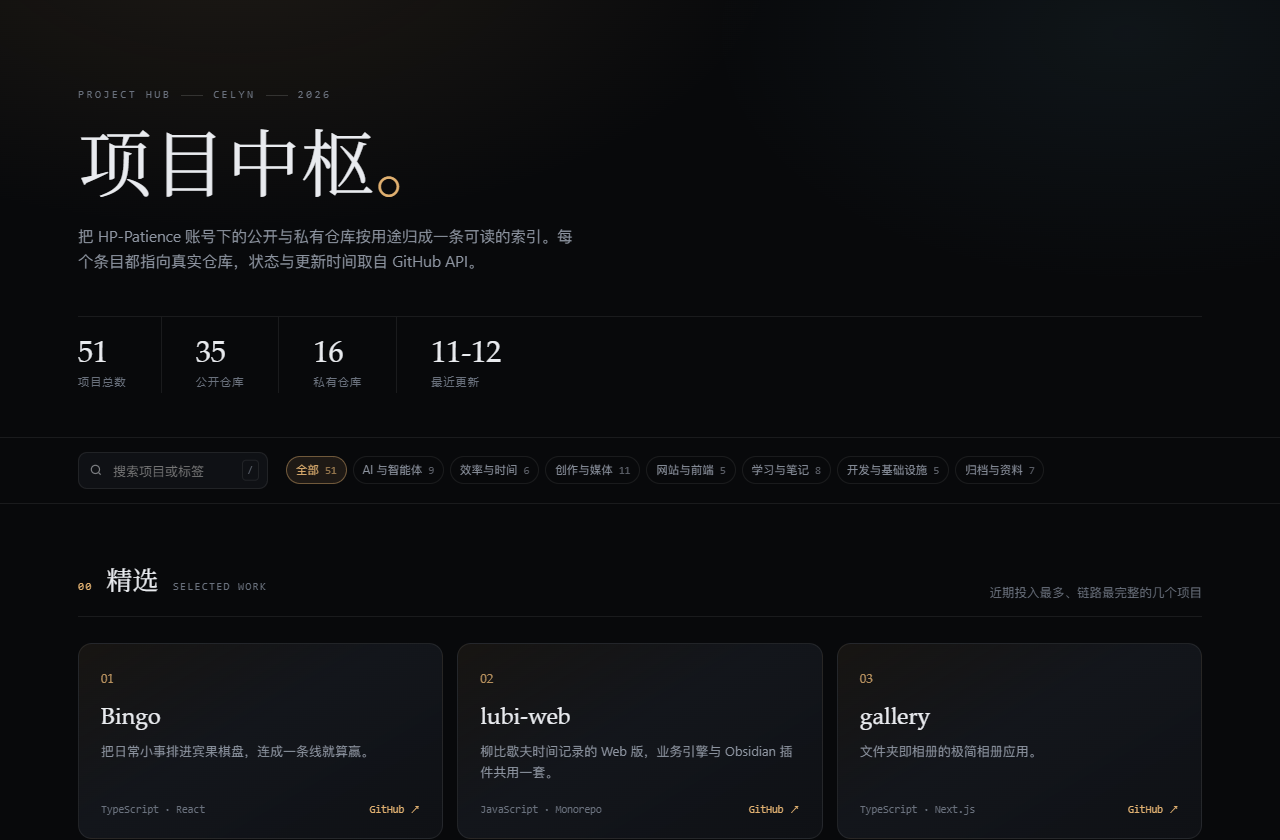
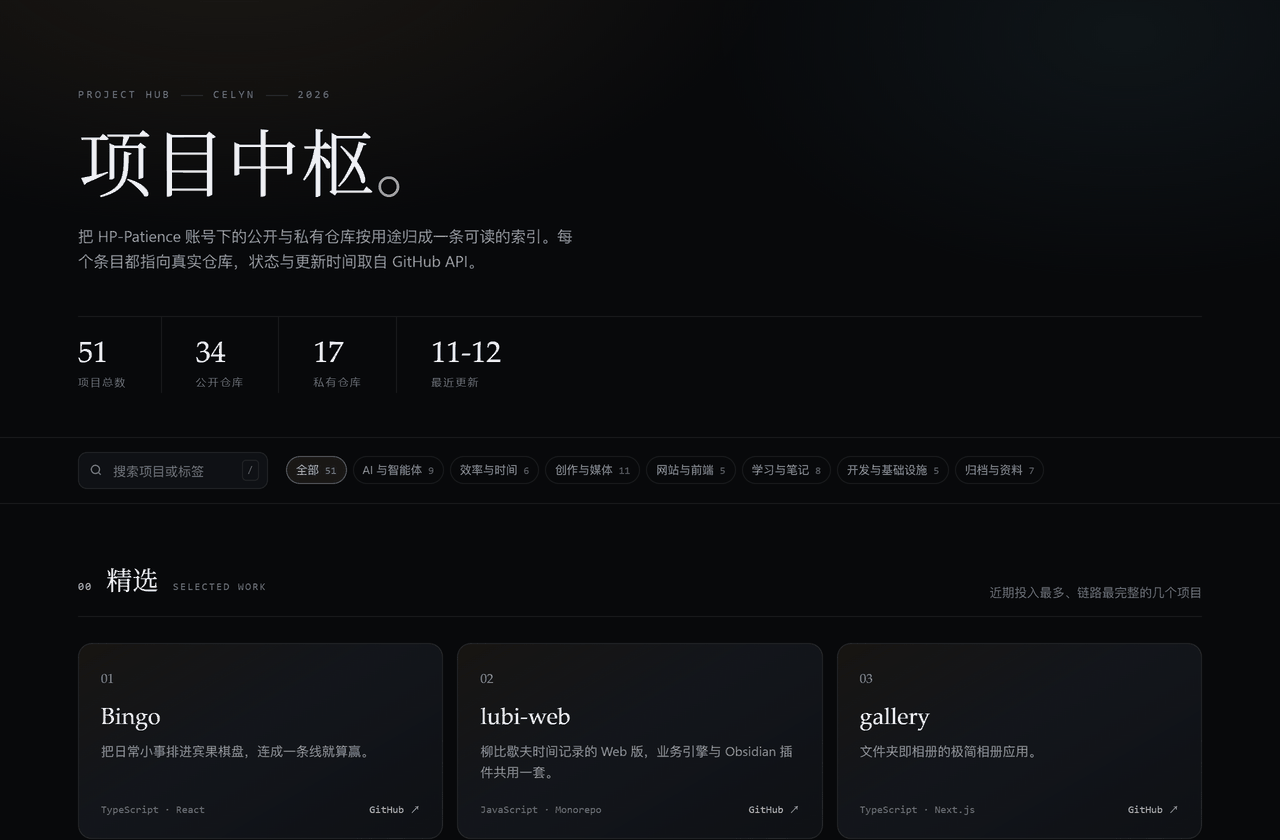
feat: Tools 转为私有，按私有规则隐藏描述与链接

diff --git a/index.html b/index.html
@@ -294,7 +294,7 @@
     </div>
     <div>
       <div class="mono">生成时间</div>
-      <div>2026-11-12 14:30</div>
+      <div>2026-11-12 18:23</div>
     </div>
     <div>
       <div class="mono">入口</div>
@@ -304,7 +304,7 @@
 </footer>
 
 <script>
-const DATA = {"meta":{"owner":"HP-Patience","accounts":["HP-Patience"],"source":"GitHub REST API（HP-Patience 名下 53 个仓库）+ 本地工作区 E:/_Projects/HP_Github_PJ","updated":"2026-11-12"},"categories":[{"id":"ai","name":"AI 与智能体","en":"AI & Agents","desc":"把模型能力落成可用工具：Agent 工作流、技能库、检索与生成。"},{"id":"productivity","name":"效率与时间","en":"Productivity","desc":"任务、时间、知识的管理系统，多数以本地数据与 Markdown 为底座。"},{"id":"creative","name":"创作与媒体","en":"Creative & Media","desc":"图像、声音、视频与游戏：从素材检索到成片输出的完整链路。"},{"id":"web","name":"网站与前端","en":"Web & Frontend","desc":"个人主页、内容工作台与前端练习，多为可直接访问的线上作品。"},{"id":"learning","name":"学习与笔记","en":"Learning & Notes","desc":"课程、教材与研究方向的结构化记录，强调可复习、可追踪。"},{"id":"infra","name":"开发与基础设施","en":"Dev & Infra","desc":"编辑器、桥接层、脚本与配置：支撑上面所有项目的底座。"},{"id":"archive","name":"归档与资料","en":"Archive","desc":"长期归档的 vault、配置备份与参考资料，不作为活跃项目维护。"}],"projects":[{"name":"Bingo","owner":"HP-Patience","category":"productivity","tagline":"把日常小事排进宾果棋盘，连成一条线就算赢。","desc":"React + Supabase 的宾果式任务管理：完成格子攒 XP、升级解锁头衔，用抽奖与虚拟商店把奖励兑换成真实的休息与零食。","stack":["TypeScript","React","Supabase"],"tags":["任务管理","游戏化","PWA"],"homepage":"https://www.life-bingo.xyz/","featured":true,"updated":"2026-11-04"},{"name":"lubi-web","owner":"HP-Patience","category":"productivity","tagline":"柳比歇夫时间记录的 Web 版，业务引擎与 Obsidian 插件共用一套。","desc":"monorepo（apps + packages），把时间轴记录、计时、周月年回顾与备份搬进浏览器，数据留在本机 SQLite。","stack":["JavaScript","Monorepo","SQLite"],"tags":["时间记录","柳比歇夫","本地优先"],"featured":true,"updated":"2026-11-07"},{"name":"obsidian_task_kanban","owner":"HP-Patience","category":"productivity","tagline":"Lubi 时间记录插件，外加一份开箱即用的 Obsidian 仓库。","desc":"时间轴记录、周/月/年回顾与热力图、周日程任务规划，全部落在纯 Markdown 上，可直接 git 同步。","stack":["TypeScript","Obsidian"],"tags":["Obsidian","时间记录","热力图"],"updated":"2026-11-02"},{"name":"Obsidian_Plugin","owner":"HP-Patience","category":"productivity","tagline":"个人 Obsidian 插件源码合集：Lubi 与 Mermaid Zoom Viewer。","desc":"两个自用插件的源码与构建脚本集中管理，方便统一版本与发布。","stack":["JavaScript","Obsidian"],"tags":["Obsidian","插件开发"],"updated":"2026-11-02"},{"name":"Skills","owner":"HP-Patience","category":"ai","tagline":"面向 AI 编程助手的个人 Agent Skills 合集。","desc":"覆盖学习、写作、规划、需求理解与开发工作流，按可安装的 skill 结构组织。","stack":["Python","Markdown"],"tags":["Agent","Skill","工作流"],"updated":"2026-11-04"},{"name":"DeepTutor","owner":"HP-Patience","category":"ai","tagline":"结合知识库检索的个性化 AI 学习助手。","desc":"在 HKUDS/DeepTutor 基础上做个人化调整：答疑、课程学习与知识理解，支持文档入库检索。","stack":["Python","RAG","Agent"],"tags":["教育","RAG","二次开发"],"statusOverride":"fork","updated":"2026-11-01"},{"name":"MathModelAgent","owner":"HP-Patience","category":"ai","tagline":"数学建模 Agent：从读题到生成可提交的完整论文。","desc":"问题分析、建模求解、代码执行与论文撰写串成一条链路，支持知识库与人机协作。","stack":["Python","Agent"],"tags":["数学建模","论文生成"],"statusOverride":"fork","updated":"2026-10-25"},{"name":"tongflow","owner":"HP-Patience","category":"ai","tagline":"多模态 AI 工作流：用节点编排文本、图像、语音与视频。","desc":"可视化画布组织生成流程，节点间可组合模型与参数，适合把一次性脚本固化成可复用管线。","stack":["TypeScript","React"],"tags":["工作流","多模态","节点编排"],"statusOverride":"fork","updated":"2026-10-11"},{"name":"tongflow-api-xai","owner":"HP-Patience","category":"ai","tagline":"TongFlow 的 xAI Grok 节点插件。","desc":"通过 OpenAI 兼容接口接入聊天、视觉与图像模型，支持逐节点选择模型。","stack":["Python","xAI"],"tags":["插件","API 网关"],"statusOverride":"fork","updated":"2026-10-09"},{"name":"GithubStarsManager","owner":"HP-Patience","category":"ai","tagline":"把 GitHub Star 变成可检索、可分类的个人资料库。","desc":"自动同步星标仓库，用 AI 生成摘要与分类，支持语义搜索与 Release 追踪。","stack":["TypeScript","LLM"],"tags":["GitHub","语义搜索","自动化"],"statusOverride":"fork","updated":"2026-09-07"},{"name":"dsh-directorx","owner":"HP-Patience","category":"ai","tagline":"DeepSeek Harness 插件：视频、图像、音频技能与知识库。","desc":"为本地 Agent 挂载多模态工具与可配置模型，适合做内容生产流水线。","stack":["JavaScript","DeepSeek"],"tags":["插件","多模态"],"statusOverride":"fork","updated":"2026-09-03"},{"name":"genius-mathmodelagent","owner":"HP-Patience","category":"ai","tagline":"","desc":"","stack":["Python","Agent"],"tags":["科研助手","结构整理"],"updated":"2026-10-25","visibility":"private","masked":true},{"name":"gallery","owner":"HP-Patience","category":"creative","tagline":"文件夹即相册的极简相册应用。","desc":"把图片放进 public/albums 即自动生成相册列表，响应式瀑布流浏览，桌面与移动端均适配。","stack":["TypeScript","Next.js"],"tags":["相册","瀑布流","Vercel"],"homepage":"https://gallery-xi-jet.vercel.app","featured":true,"updated":"2026-11-04"},{"name":"ink-live2d","owner":"HP-Patience","category":"creative","tagline":"墨像：黑白肖像与键鼠桌宠共用一套 Live2D 制作管线。","desc":"InkPortrait 与 InkKeys 两个模型合并维护，包含分层工具、绑定导出与运行验证流程。","stack":["Python","Live2D"],"tags":["Live2D","桌宠","模型制作"],"featured":true,"updated":"2026-11-05"},{"name":"ink-bongocat-live2d","owner":"HP-Patience","category":"creative","tagline":"","desc":"","stack":["C","SDL3","OpenGL"],"tags":["桌宠","原生","运行时"],"updated":"2026-11-02","visibility":"private","masked":true},{"name":"LocalMediaSearch","owner":"HP-Patience","category":"creative","tagline":"镜库：用一句话或一张参考图，找到本机里的素材。","desc":"基于 EmbeddingGemma 2 的本地多模态检索，覆盖视频、图片、音频、文本与代码，定位后可导出。","stack":["Python","Embedding","Windows"],"tags":["素材检索","多模态","本地优先"],"featured":true,"updated":"2026-10-12"},{"name":"MusiCue","owner":"HP-Patience","category":"creative","tagline":"听得懂心情的 AI 电台，按场景生成渐进式歌单。","desc":"用自然语言描述需求，模型结合上下文推荐歌曲并持续记忆品味，形成个人 DJ。","stack":["TypeScript","React","LLM"],"tags":["音乐","推荐","LLM"],"featured":true,"updated":"2026-08-29"},{"name":"pix","owner":"HP-Patience","category":"creative","tagline":"面向游戏开发的 AI 像素资产平台。","desc":"整合图像生成、去背景、限色、序列帧处理与资产管理，输出可直接进引擎的像素素材。","stack":["Python","FastAPI","React"],"tags":["像素画","游戏资产","生成"],"statusOverride":"fork","updated":"2026-09-10"},{"name":"voicebox","owner":"HP-Patience","category":"creative","tagline":"本地 AI 语音工作室：克隆、合成、听写与 Agent 接口。","desc":"把声音克隆、多语言语音合成与快捷键听写收进一个桌面应用，并提供给 Agent 调用的语音接口。","stack":["TypeScript","TTS"],"tags":["语音克隆","TTS","本地"],"statusOverride":"fork","updated":"2026-09-19"},{"name":"VoxCPM","owner":"HP-Patience","category":"creative","tagline":"无分词器的多语言语音合成，支持音色设计。","desc":"在上游模型基础上做本地化实验：多语言生成、创意音色设计与可控声音克隆。","stack":["Python","TTS"],"tags":["语音合成","模型"],"statusOverride":"fork","updated":"2026-09-14"},{"name":"openscreen","owner":"HP-Patience","category":"creative","tagline":"免费做演示视频：无订阅、无水印，可商用。","desc":"屏幕录制与镜头编排工具，面向产品演示与操作讲解，作为 Screen Studio 的替代。","stack":["TypeScript","Electron"],"tags":["录屏","演示视频"],"statusOverride":"fork","updated":"2026-09-19"},{"name":"video-subtitle-remover","owner":"HP-Patience","category":"creative","tagline":"AI 去除视频硬字幕与水印，保持原始分辨率。","desc":"支持自定义区域、批量图片与三平台运行，适合处理二创素材与教学录屏。","stack":["Python","CV"],"tags":["视频修复","去水印"],"statusOverride":"fork","updated":"2026-06-30"},{"name":"video-parser","owner":"HP-Patience","category":"creative","tagline":"本地视频资料工作台：下载、抽帧、字幕、转写与归档。","desc":"链接解析下载后串起封面抽帧、B 站字幕、Whisper CUDA 批量转写与 AI 画面分析，提供 React 界面与 Python CLI。","stack":["Python","React","Whisper"],"tags":["视频处理","字幕","归档"],"updated":"2026-11-08"},{"name":"HP-Patience","owner":"HP-Patience","category":"web","tagline":"GitHub 个人主页：AI 产品、学习系统与个人工具。","desc":"Profile 仓库，用 README 组织项目索引与自我介绍。","stack":["Python","Markdown"],"tags":["Profile","导航"],"updated":"2026-11-05"},{"name":"OpenStock","owner":"HP-Patience","category":"web","tagline":"开源美股行情分析应用，Next.js + shadcn/ui。","desc":"接入 Finnhub 行情与 TradingView 图表，作为付费行情终端的替代方案。","stack":["TypeScript","Next.js"],"tags":["行情","仪表盘"],"statusOverride":"fork","updated":"2026-10-06"},{"name":"Firefly_Hub","owner":"HP-Patience","category":"web","tagline":"博客的本地内容工作台：写、预览、发布一条龙。","desc":"集中管理文章与动态，Markdown 实时预览，并协作源码仓库与静态构建仓库的提交流程。","stack":["JavaScript","Electron"],"tags":["内容管理","Markdown"],"updated":"2026-08-29"},{"name":"frontend-awesome-collection","owner":"HP-Patience","category":"web","tagline":"","desc":"","stack":["HTML","CSS","JavaScript"],"tags":["前端","复刻","动效"],"updated":"2026-11-08","visibility":"private","masked":true},{"name":"English_Context","owner":"HP-Patience","category":"learning","tagline":"把 6098 个考研词汇放进连续故事里记。","desc":"118 个分类结合 AI 释义与例句，用语境理解 + SM-2 间隔复习把单词变成长期记忆。","stack":["TypeScript","React","LLM"],"tags":["考研英语","间隔复习","语境"],"featured":true,"updated":"2026-10-08"},{"name":"course-work","owner":"HP-Patience","category":"learning","tagline":"MIT Missing Semester 与零到全栈的课程材料归档。","desc":"按课程模块整理配套代码与笔记，保留可回看的练习痕迹。","stack":["CSS","Markdown"],"tags":["课程","归档"],"updated":"2026-11-02"},{"name":"my-fullstack-journey","owner":"HP-Patience","category":"learning","tagline":"从零基础到 AI Agent 产品的全栈学习路线。","desc":"覆盖 Python、JavaScript、React、FastAPI、数据库、LLM 与 Agent 开发的阶段性笔记。","stack":["Markdown"],"tags":["路线图","全栈"],"updated":"2026-09-19"},{"name":"DevPatterns","owner":"HP-Patience","category":"learning","tagline":"开发模式与工程实践笔记库。","desc":"前后端架构、工具配置、AI 工作流与项目管理方法的个人沉淀。","stack":["Markdown"],"tags":["架构","工程实践"],"updated":"2026-06-25"},{"name":"worldquant-study-note","owner":"HP-Patience","category":"learning","tagline":"WorldQuant BRAIN 的量化研究笔记与实验记录。","desc":"从 Alpha Research、表达式写法到回测设置，记录实验、结果解读与提交准备。","stack":["Markdown"],"tags":["量化","Alpha","笔记"],"updated":"2026-09-24"},{"name":"mao-probability-statistics","owner":"HP-Patience","category":"learning","tagline":"","desc":"","stack":["Python","Markdown"],"tags":["概率统计","教材"],"updated":"2026-10-25","visibility":"private","masked":true},{"name":"Tools","owner":"HP-Patience","category":"infra","tagline":"十几个自用小工具收进一个仓库，各自独立运行。","desc":"每个工具保留自己的 README 与运行方式：静态页、Python 脚本、Node 服务、Go 后端与浏览器游戏原型并存，共享位置而不共享依赖。","stack":["Python","JavaScript","Go"],"tags":["工具集","LLM 测试"],"updated":"2026-11-12","subprojects":[{"name":"GPT图像工坊","tagline":"输入提示词生成图片，支持参考图编辑与本地标注。","stack":["Python","FastAPI"],"updated":"2026-08-17"},{"name":"LLM试金石","tagline":"批量验证 OpenAI 兼容接口的模型连通性与耗时。","stack":["HTML","JavaScript"],"updated":"2026-07-22"},{"name":"Dreamcore-Style-Transfer","tagline":"用 Pillow 做 10 种「核」风格的像素级处理。","stack":["Python","Pillow"],"updated":"2026-11-04"},{"name":"Penrose-Staircase","tagline":"生成第 n 阶彭罗斯不可能阶梯。","stack":["Python"],"updated":"2026-11-04"},{"name":"tencent-server-seckill","tagline":"腾讯云服务器抢购的本地控制台与命令行。","stack":["Python","Playwright"],"updated":"2026-11-04"},{"name":"mailbox-reader","tagline":"批量导入邮箱，按需读取收件箱。","stack":["Python","Graph API"],"updated":"2026-11-04"},{"name":"QQBookExporter","tagline":"导出在线章节为 Markdown / TXT，再打包 EPUB / PDF。","stack":["Node.js"],"updated":"2026-11-04"},{"name":"Taskleaf-Kanban","tagline":"四列任务看板，JSON 文件持久化。","stack":["JavaScript","Vite","Express"],"updated":"2026-11-04"},{"name":"ai-subscription-manager","tagline":"AI 订阅客户、续费与利润记录，到期邮件提醒。","stack":["React","FastAPI","SQLite"],"updated":"2026-11-04"},{"name":"danew_card_cdk","tagline":"CDK 卡密兑换与自动开通。","stack":["Go","Vue"],"updated":"2026-11-04"},{"name":"knowledge-map","tagline":"Agent 整理、浏览器只读回看的个人知识地图。","stack":["TypeScript","Vite"],"updated":"2026-11-04"},{"name":"ember-covenant-sanctuary","tagline":"《烬契圣堂》：高对比像素风俯视角动作肉鸽原型。","stack":["Phaser 3","JavaScript"],"updated":"2026-11-07"},{"name":"dotfiles","tagline":"Linux 服务器的 Zsh 配置与一键安装脚本。","stack":["Shell","Zsh"],"updated":"2026-11-12"}]},{"name":"open_shuncode","owner":"HP-Patience","category":"infra","tagline":"","desc":"","stack":["TypeScript","Code-OSS","MCP"],"tags":["编辑器","MCP","Agent"],"updated":"2026-11-04","visibility":"private","masked":true},{"name":"github-readme-stats","owner":"HP-Patience","category":"infra","tagline":"README 统计卡片的自建实例。","desc":"上游项目的个人部署副本，用于在主页 README 中生成动态统计图，保持数据自持。","stack":["JavaScript","Vercel"],"tags":["徽章","统计","上游参考"],"statusOverride":"fork","updated":"2026-07-31"},{"name":"api-enhanced","owner":"HP-Patience","category":"infra","tagline":"网易云音乐 API 的增强版服务。","desc":"在上游基础上补齐接口与兼容层，为本地音乐类项目提供统一数据源。","stack":["JavaScript","Node.js"],"tags":["API","音乐","上游参考"],"statusOverride":"fork","updated":"2026-06-09"},{"name":"Project_Data_Archive","owner":"HP-Patience","category":"archive","tagline":"","desc":"","stack":["Jupyter Notebook","Archive"],"tags":["归档","研究数据","私有"],"updated":"2026-11-12","visibility":"private","masked":true},{"name":"obsidian-kaoyan","owner":"HP-Patience","category":"archive","tagline":"","desc":"","stack":["Markdown","Obsidian"],"tags":["Obsidian","vault","本地"],"updated":"2026-08-31","visibility":"private","masked":true},{"name":"obsidian-config","owner":"HP-Patience","category":"archive","tagline":"","desc":"","stack":["JSON","Obsidian"],"tags":["配置","备份","本地"],"updated":"2026-09-01","visibility":"private","masked":true},{"name":"folia-major","owner":"HP-Patience","category":"archive","tagline":"","desc":"","stack":["TypeScript"],"tags":["上游参考","音乐"],"updated":"2026-10-05","visibility":"private","masked":true},{"name":"localtypeless","owner":"HP-Patience","category":"productivity","tagline":"","desc":"","stack":["Python","Whisper"],"tags":["语音输入","本地推理","Windows"],"visibility":"private","updated":"2026-11-04","masked":true},{"name":"blog-firefly","owner":"HP-Patience","category":"web","tagline":"","desc":"","stack":["Astro","TypeScript"],"tags":["博客","Astro"],"visibility":"private","updated":"2026-11-11","masked":true},{"name":"undergrad-thesis-crw","owner":"HP-Patience","category":"learning","tagline":"","desc":"","stack":["Python","PyTorch","LoRA"],"tags":["论文","金融情感","微调"],"visibility":"private","updated":"2026-11-01","masked":true},{"name":"mit-math-study","owner":"HP-Patience","category":"learning","tagline":"","desc":"","stack":["Markdown"],"tags":["数学","课程"],"visibility":"private","updated":"2026-09-18","masked":true},{"name":"cc-connect","owner":"HP-Patience","category":"infra","tagline":"","desc":"","stack":["Go","MCP"],"tags":["桥接","IM","Agent"],"visibility":"private","updated":"2026-09-16","masked":true},{"name":"drumbeat-desktop","owner":"HP-Patience","category":"productivity","tagline":"","desc":"","stack":["JavaScript","Electron","SQLite"],"tags":["教培管理","本地优先","桌面应用"],"visibility":"private","updated":"2026-11-05","masked":true},{"name":"personal-workbench","owner":"HP-Patience","category":"ai","tagline":"","desc":"","stack":["Python","FastAPI","React","Electron"],"tags":["本地优先","写作","研究"],"visibility":"private","updated":"2026-11-09","masked":true},{"name":"ayakaleaf-pro","owner":"HP-Patience","category":"archive","tagline":"Overleaf 的开源自托管替代（上游镜像，仅作参考）。","desc":"覆盖 SSO、AI 助手、Git(Hub/Lab) 与 Dropbox 同步、版本追踪和沙箱编译等 Pro 能力，可自托管部署；本仓为上游 fork，未做个人改动。","stack":["TypeScript","JavaScript","Docker"],"tags":["上游参考","论文写作","自托管"],"statusOverride":"archived","updated":"2026-11-04"},{"name":"deepseek-harness","owner":"HP-Patience","category":"archive","tagline":"DeepSeek Harness 的上游镜像（本地 Agent 运行时的参考副本）。","desc":"DeepSeek Harness 官方仓库的 fork，保留 master 分支用于跟踪上游发布；本仓未做个人改动。","stack":["TypeScript","Python"],"tags":["上游参考","Agent","镜像"],"statusOverride":"archived","updated":"2026-11-04"},{"name":"rustdesk","owner":"HP-Patience","category":"archive","tagline":"RustDesk 的上游镜像（自托管远程桌面的参考副本）。","desc":"RustDesk 官方仓库的 fork，纯上游同步、未做个人改动；保留用于自托管远程桌面方案的版本对照。","stack":["Rust","Flutter"],"tags":["远程桌面","上游参考","镜像"],"statusOverride":"fork","updated":"2026-11-11"}]};
+const DATA = {"meta":{"owner":"HP-Patience","accounts":["HP-Patience"],"source":"GitHub REST API（HP-Patience 名下 53 个仓库）+ 本地工作区 E:/_Projects/HP_Github_PJ","updated":"2026-11-12"},"categories":[{"id":"ai","name":"AI 与智能体","en":"AI & Agents","desc":"把模型能力落成可用工具：Agent 工作流、技能库、检索与生成。"},{"id":"productivity","name":"效率与时间","en":"Productivity","desc":"任务、时间、知识的管理系统，多数以本地数据与 Markdown 为底座。"},{"id":"creative","name":"创作与媒体","en":"Creative & Media","desc":"图像、声音、视频与游戏：从素材检索到成片输出的完整链路。"},{"id":"web","name":"网站与前端","en":"Web & Frontend","desc":"个人主页、内容工作台与前端练习，多为可直接访问的线上作品。"},{"id":"learning","name":"学习与笔记","en":"Learning & Notes","desc":"课程、教材与研究方向的结构化记录，强调可复习、可追踪。"},{"id":"infra","name":"开发与基础设施","en":"Dev & Infra","desc":"编辑器、桥接层、脚本与配置：支撑上面所有项目的底座。"},{"id":"archive","name":"归档与资料","en":"Archive","desc":"长期归档的 vault、配置备份与参考资料，不作为活跃项目维护。"}],"projects":[{"name":"Bingo","owner":"HP-Patience","category":"productivity","tagline":"把日常小事排进宾果棋盘，连成一条线就算赢。","desc":"React + Supabase 的宾果式任务管理：完成格子攒 XP、升级解锁头衔，用抽奖与虚拟商店把奖励兑换成真实的休息与零食。","stack":["TypeScript","React","Supabase"],"tags":["任务管理","游戏化","PWA"],"homepage":"https://www.life-bingo.xyz/","featured":true,"updated":"2026-11-04"},{"name":"lubi-web","owner":"HP-Patience","category":"productivity","tagline":"柳比歇夫时间记录的 Web 版，业务引擎与 Obsidian 插件共用一套。","desc":"monorepo（apps + packages），把时间轴记录、计时、周月年回顾与备份搬进浏览器，数据留在本机 SQLite。","stack":["JavaScript","Monorepo","SQLite"],"tags":["时间记录","柳比歇夫","本地优先"],"featured":true,"updated":"2026-11-07"},{"name":"obsidian_task_kanban","owner":"HP-Patience","category":"productivity","tagline":"Lubi 时间记录插件，外加一份开箱即用的 Obsidian 仓库。","desc":"时间轴记录、周/月/年回顾与热力图、周日程任务规划，全部落在纯 Markdown 上，可直接 git 同步。","stack":["TypeScript","Obsidian"],"tags":["Obsidian","时间记录","热力图"],"updated":"2026-11-02"},{"name":"Obsidian_Plugin","owner":"HP-Patience","category":"productivity","tagline":"个人 Obsidian 插件源码合集：Lubi 与 Mermaid Zoom Viewer。","desc":"两个自用插件的源码与构建脚本集中管理，方便统一版本与发布。","stack":["JavaScript","Obsidian"],"tags":["Obsidian","插件开发"],"updated":"2026-11-02"},{"name":"Skills","owner":"HP-Patience","category":"ai","tagline":"面向 AI 编程助手的个人 Agent Skills 合集。","desc":"覆盖学习、写作、规划、需求理解与开发工作流，按可安装的 skill 结构组织。","stack":["Python","Markdown"],"tags":["Agent","Skill","工作流"],"updated":"2026-11-04"},{"name":"DeepTutor","owner":"HP-Patience","category":"ai","tagline":"结合知识库检索的个性化 AI 学习助手。","desc":"在 HKUDS/DeepTutor 基础上做个人化调整：答疑、课程学习与知识理解，支持文档入库检索。","stack":["Python","RAG","Agent"],"tags":["教育","RAG","二次开发"],"statusOverride":"fork","updated":"2026-11-01"},{"name":"MathModelAgent","owner":"HP-Patience","category":"ai","tagline":"数学建模 Agent：从读题到生成可提交的完整论文。","desc":"问题分析、建模求解、代码执行与论文撰写串成一条链路，支持知识库与人机协作。","stack":["Python","Agent"],"tags":["数学建模","论文生成"],"statusOverride":"fork","updated":"2026-10-25"},{"name":"tongflow","owner":"HP-Patience","category":"ai","tagline":"多模态 AI 工作流：用节点编排文本、图像、语音与视频。","desc":"可视化画布组织生成流程，节点间可组合模型与参数，适合把一次性脚本固化成可复用管线。","stack":["TypeScript","React"],"tags":["工作流","多模态","节点编排"],"statusOverride":"fork","updated":"2026-10-11"},{"name":"tongflow-api-xai","owner":"HP-Patience","category":"ai","tagline":"TongFlow 的 xAI Grok 节点插件。","desc":"通过 OpenAI 兼容接口接入聊天、视觉与图像模型，支持逐节点选择模型。","stack":["Python","xAI"],"tags":["插件","API 网关"],"statusOverride":"fork","updated":"2026-10-09"},{"name":"GithubStarsManager","owner":"HP-Patience","category":"ai","tagline":"把 GitHub Star 变成可检索、可分类的个人资料库。","desc":"自动同步星标仓库，用 AI 生成摘要与分类，支持语义搜索与 Release 追踪。","stack":["TypeScript","LLM"],"tags":["GitHub","语义搜索","自动化"],"statusOverride":"fork","updated":"2026-09-07"},{"name":"dsh-directorx","owner":"HP-Patience","category":"ai","tagline":"DeepSeek Harness 插件：视频、图像、音频技能与知识库。","desc":"为本地 Agent 挂载多模态工具与可配置模型，适合做内容生产流水线。","stack":["JavaScript","DeepSeek"],"tags":["插件","多模态"],"statusOverride":"fork","updated":"2026-09-03"},{"name":"genius-mathmodelagent","owner":"HP-Patience","category":"ai","tagline":"","desc":"","stack":["Python","Agent"],"tags":["科研助手","结构整理"],"updated":"2026-10-25","visibility":"private","masked":true},{"name":"gallery","owner":"HP-Patience","category":"creative","tagline":"文件夹即相册的极简相册应用。","desc":"把图片放进 public/albums 即自动生成相册列表，响应式瀑布流浏览，桌面与移动端均适配。","stack":["TypeScript","Next.js"],"tags":["相册","瀑布流","Vercel"],"homepage":"https://gallery-xi-jet.vercel.app","featured":true,"updated":"2026-11-04"},{"name":"ink-live2d","owner":"HP-Patience","category":"creative","tagline":"墨像：黑白肖像与键鼠桌宠共用一套 Live2D 制作管线。","desc":"InkPortrait 与 InkKeys 两个模型合并维护，包含分层工具、绑定导出与运行验证流程。","stack":["Python","Live2D"],"tags":["Live2D","桌宠","模型制作"],"featured":true,"updated":"2026-11-05"},{"name":"ink-bongocat-live2d","owner":"HP-Patience","category":"creative","tagline":"","desc":"","stack":["C","SDL3","OpenGL"],"tags":["桌宠","原生","运行时"],"updated":"2026-11-02","visibility":"private","masked":true},{"name":"LocalMediaSearch","owner":"HP-Patience","category":"creative","tagline":"镜库：用一句话或一张参考图，找到本机里的素材。","desc":"基于 EmbeddingGemma 2 的本地多模态检索，覆盖视频、图片、音频、文本与代码，定位后可导出。","stack":["Python","Embedding","Windows"],"tags":["素材检索","多模态","本地优先"],"featured":true,"updated":"2026-10-12"},{"name":"MusiCue","owner":"HP-Patience","category":"creative","tagline":"听得懂心情的 AI 电台，按场景生成渐进式歌单。","desc":"用自然语言描述需求，模型结合上下文推荐歌曲并持续记忆品味，形成个人 DJ。","stack":["TypeScript","React","LLM"],"tags":["音乐","推荐","LLM"],"featured":true,"updated":"2026-08-29"},{"name":"pix","owner":"HP-Patience","category":"creative","tagline":"面向游戏开发的 AI 像素资产平台。","desc":"整合图像生成、去背景、限色、序列帧处理与资产管理，输出可直接进引擎的像素素材。","stack":["Python","FastAPI","React"],"tags":["像素画","游戏资产","生成"],"statusOverride":"fork","updated":"2026-09-10"},{"name":"voicebox","owner":"HP-Patience","category":"creative","tagline":"本地 AI 语音工作室：克隆、合成、听写与 Agent 接口。","desc":"把声音克隆、多语言语音合成与快捷键听写收进一个桌面应用，并提供给 Agent 调用的语音接口。","stack":["TypeScript","TTS"],"tags":["语音克隆","TTS","本地"],"statusOverride":"fork","updated":"2026-09-19"},{"name":"VoxCPM","owner":"HP-Patience","category":"creative","tagline":"无分词器的多语言语音合成，支持音色设计。","desc":"在上游模型基础上做本地化实验：多语言生成、创意音色设计与可控声音克隆。","stack":["Python","TTS"],"tags":["语音合成","模型"],"statusOverride":"fork","updated":"2026-09-14"},{"name":"openscreen","owner":"HP-Patience","category":"creative","tagline":"免费做演示视频：无订阅、无水印，可商用。","desc":"屏幕录制与镜头编排工具，面向产品演示与操作讲解，作为 Screen Studio 的替代。","stack":["TypeScript","Electron"],"tags":["录屏","演示视频"],"statusOverride":"fork","updated":"2026-09-19"},{"name":"video-subtitle-remover","owner":"HP-Patience","category":"creative","tagline":"AI 去除视频硬字幕与水印，保持原始分辨率。","desc":"支持自定义区域、批量图片与三平台运行，适合处理二创素材与教学录屏。","stack":["Python","CV"],"tags":["视频修复","去水印"],"statusOverride":"fork","updated":"2026-06-30"},{"name":"video-parser","owner":"HP-Patience","category":"creative","tagline":"本地视频资料工作台：下载、抽帧、字幕、转写与归档。","desc":"链接解析下载后串起封面抽帧、B 站字幕、Whisper CUDA 批量转写与 AI 画面分析，提供 React 界面与 Python CLI。","stack":["Python","React","Whisper"],"tags":["视频处理","字幕","归档"],"updated":"2026-11-08"},{"name":"HP-Patience","owner":"HP-Patience","category":"web","tagline":"GitHub 个人主页：AI 产品、学习系统与个人工具。","desc":"Profile 仓库，用 README 组织项目索引与自我介绍。","stack":["Python","Markdown"],"tags":["Profile","导航"],"updated":"2026-11-05"},{"name":"OpenStock","owner":"HP-Patience","category":"web","tagline":"开源美股行情分析应用，Next.js + shadcn/ui。","desc":"接入 Finnhub 行情与 TradingView 图表，作为付费行情终端的替代方案。","stack":["TypeScript","Next.js"],"tags":["行情","仪表盘"],"statusOverride":"fork","updated":"2026-10-06"},{"name":"Firefly_Hub","owner":"HP-Patience","category":"web","tagline":"博客的本地内容工作台：写、预览、发布一条龙。","desc":"集中管理文章与动态，Markdown 实时预览，并协作源码仓库与静态构建仓库的提交流程。","stack":["JavaScript","Electron"],"tags":["内容管理","Markdown"],"updated":"2026-08-29"},{"name":"frontend-awesome-collection","owner":"HP-Patience","category":"web","tagline":"","desc":"","stack":["HTML","CSS","JavaScript"],"tags":["前端","复刻","动效"],"updated":"2026-11-08","visibility":"private","masked":true},{"name":"English_Context","owner":"HP-Patience","category":"learning","tagline":"把 6098 个考研词汇放进连续故事里记。","desc":"118 个分类结合 AI 释义与例句，用语境理解 + SM-2 间隔复习把单词变成长期记忆。","stack":["TypeScript","React","LLM"],"tags":["考研英语","间隔复习","语境"],"featured":true,"updated":"2026-10-08"},{"name":"course-work","owner":"HP-Patience","category":"learning","tagline":"MIT Missing Semester 与零到全栈的课程材料归档。","desc":"按课程模块整理配套代码与笔记，保留可回看的练习痕迹。","stack":["CSS","Markdown"],"tags":["课程","归档"],"updated":"2026-11-02"},{"name":"my-fullstack-journey","owner":"HP-Patience","category":"learning","tagline":"从零基础到 AI Agent 产品的全栈学习路线。","desc":"覆盖 Python、JavaScript、React、FastAPI、数据库、LLM 与 Agent 开发的阶段性笔记。","stack":["Markdown"],"tags":["路线图","全栈"],"updated":"2026-09-19"},{"name":"DevPatterns","owner":"HP-Patience","category":"learning","tagline":"开发模式与工程实践笔记库。","desc":"前后端架构、工具配置、AI 工作流与项目管理方法的个人沉淀。","stack":["Markdown"],"tags":["架构","工程实践"],"updated":"2026-06-25"},{"name":"worldquant-study-note","owner":"HP-Patience","category":"learning","tagline":"WorldQuant BRAIN 的量化研究笔记与实验记录。","desc":"从 Alpha Research、表达式写法到回测设置，记录实验、结果解读与提交准备。","stack":["Markdown"],"tags":["量化","Alpha","笔记"],"updated":"2026-09-24"},{"name":"mao-probability-statistics","owner":"HP-Patience","category":"learning","tagline":"","desc":"","stack":["Python","Markdown"],"tags":["概率统计","教材"],"updated":"2026-10-25","visibility":"private","masked":true},{"name":"Tools","owner":"HP-Patience","category":"infra","tagline":"","desc":"","stack":["Python","JavaScript","Go"],"tags":["工具集","LLM 测试"],"updated":"2026-11-12","visibility":"private","masked":true},{"name":"open_shuncode","owner":"HP-Patience","category":"infra","tagline":"","desc":"","stack":["TypeScript","Code-OSS","MCP"],"tags":["编辑器","MCP","Agent"],"updated":"2026-11-04","visibility":"private","masked":true},{"name":"github-readme-stats","owner":"HP-Patience","category":"infra","tagline":"README 统计卡片的自建实例。","desc":"上游项目的个人部署副本，用于在主页 README 中生成动态统计图，保持数据自持。","stack":["JavaScript","Vercel"],"tags":["徽章","统计","上游参考"],"statusOverride":"fork","updated":"2026-07-31"},{"name":"api-enhanced","owner":"HP-Patience","category":"infra","tagline":"网易云音乐 API 的增强版服务。","desc":"在上游基础上补齐接口与兼容层，为本地音乐类项目提供统一数据源。","stack":["JavaScript","Node.js"],"tags":["API","音乐","上游参考"],"statusOverride":"fork","updated":"2026-06-09"},{"name":"Project_Data_Archive","owner":"HP-Patience","category":"archive","tagline":"","desc":"","stack":["Jupyter Notebook","Archive"],"tags":["归档","研究数据","私有"],"updated":"2026-11-12","visibility":"private","masked":true},{"name":"obsidian-kaoyan","owner":"HP-Patience","category":"archive","tagline":"","desc":"","stack":["Markdown","Obsidian"],"tags":["Obsidian","vault","本地"],"updated":"2026-08-31","visibility":"private","masked":true},{"name":"obsidian-config","owner":"HP-Patience","category":"archive","tagline":"","desc":"","stack":["JSON","Obsidian"],"tags":["配置","备份","本地"],"updated":"2026-09-01","visibility":"private","masked":true},{"name":"folia-major","owner":"HP-Patience","category":"archive","tagline":"","desc":"","stack":["TypeScript"],"tags":["上游参考","音乐"],"updated":"2026-10-05","visibility":"private","masked":true},{"name":"localtypeless","owner":"HP-Patience","category":"productivity","tagline":"","desc":"","stack":["Python","Whisper"],"tags":["语音输入","本地推理","Windows"],"visibility":"private","updated":"2026-11-04","masked":true},{"name":"blog-firefly","owner":"HP-Patience","category":"web","tagline":"","desc":"","stack":["Astro","TypeScript"],"tags":["博客","Astro"],"visibility":"private","updated":"2026-11-11","masked":true},{"name":"undergrad-thesis-crw","owner":"HP-Patience","category":"learning","tagline":"","desc":"","stack":["Python","PyTorch","LoRA"],"tags":["论文","金融情感","微调"],"visibility":"private","updated":"2026-11-01","masked":true},{"name":"mit-math-study","owner":"HP-Patience","category":"learning","tagline":"","desc":"","stack":["Markdown"],"tags":["数学","课程"],"visibility":"private","updated":"2026-09-18","masked":true},{"name":"cc-connect","owner":"HP-Patience","category":"infra","tagline":"","desc":"","stack":["Go","MCP"],"tags":["桥接","IM","Agent"],"visibility":"private","updated":"2026-09-16","masked":true},{"name":"drumbeat-desktop","owner":"HP-Patience","category":"productivity","tagline":"","desc":"","stack":["JavaScript","Electron","SQLite"],"tags":["教培管理","本地优先","桌面应用"],"visibility":"private","updated":"2026-11-05","masked":true},{"name":"personal-workbench","owner":"HP-Patience","category":"ai","tagline":"","desc":"","stack":["Python","FastAPI","React","Electron"],"tags":["本地优先","写作","研究"],"visibility":"private","updated":"2026-11-09","masked":true},{"name":"ayakaleaf-pro","owner":"HP-Patience","category":"archive","tagline":"Overleaf 的开源自托管替代（上游镜像，仅作参考）。","desc":"覆盖 SSO、AI 助手、Git(Hub/Lab) 与 Dropbox 同步、版本追踪和沙箱编译等 Pro 能力，可自托管部署；本仓为上游 fork，未做个人改动。","stack":["TypeScript","JavaScript","Docker"],"tags":["上游参考","论文写作","自托管"],"statusOverride":"archived","updated":"2026-11-04"},{"name":"deepseek-harness","owner":"HP-Patience","category":"archive","tagline":"DeepSeek Harness 的上游镜像（本地 Agent 运行时的参考副本）。","desc":"DeepSeek Harness 官方仓库的 fork，保留 master 分支用于跟踪上游发布；本仓未做个人改动。","stack":["TypeScript","Python"],"tags":["上游参考","Agent","镜像"],"statusOverride":"archived","updated":"2026-11-04"},{"name":"rustdesk","owner":"HP-Patience","category":"archive","tagline":"RustDesk 的上游镜像（自托管远程桌面的参考副本）。","desc":"RustDesk 官方仓库的 fork，纯上游同步、未做个人改动；保留用于自托管远程桌面方案的版本对照。","stack":["Rust","Flutter"],"tags":["远程桌面","上游参考","镜像"],"statusOverride":"fork","updated":"2026-11-11"}]};
 const CATS = DATA.categories;
 const PROJECTS = DATA.projects;
 

diff --git a/README.md b/README.md
@@ -8,7 +8,7 @@
 
 [**在线浏览 →**](https://hp-patience.github.io/Project_Hub/) · [个人主页](https://github.com/HP-Patience)
 
-<sub>51 个项目 · 35 个公开 · 16 个私有 · 7 个分类 · 最近更新 2026-11-12</sub>
+<sub>51 个项目 · 34 个公开 · 17 个私有 · 7 个分类 · 最近更新 2026-11-12</sub>
 
 </div>
 
@@ -108,33 +108,11 @@
 
 | 项目 | 说明 | 技术栈 | 状态 | 最近更新 |
 | --- | --- | --- | --- | --- |
-| [Tools](https://github.com/HP-Patience/Tools) | **十几个自用小工具收进一个仓库，各自独立运行。** 每个工具保留自己的 README 与运行方式：静态页、Python 脚本、Node 服务、Go 后端与浏览器游戏原型并存，共享位置而不共享依赖。 内含 13 个[子项目](https://github.com/HP-Patience/Tools)，见下表 | Python · JavaScript · Go | 活跃 | 2026-11-12 |
+| Tools | （描述已隐藏） | Python · JavaScript · Go | 活跃 · 私有 | 2026-11-12 |
 | open_shuncode | （描述已隐藏） | TypeScript · Code-OSS · MCP | 活跃 · 私有 | 2026-11-04 |
 | cc-connect | （描述已隐藏） | Go · MCP | 维护中 · 私有 | 2026-09-16 |
 | [github-readme-stats](https://github.com/HP-Patience/github-readme-stats) | **README 统计卡片的自建实例。** 上游项目的个人部署副本，用于在主页 README 中生成动态统计图，保持数据自持。 | JavaScript · Vercel | 上游衍生 | 2026-07-31 |
 | [api-enhanced](https://github.com/HP-Patience/api-enhanced) | **网易云音乐 API 的增强版服务。** 在上游基础上补齐接口与兼容层，为本地音乐类项目提供统一数据源。 | JavaScript · Node.js | 上游衍生 | 2026-06-09 |
-
-<details>
-<summary><b>Tools 的子项目（13 个）</b></summary>
-
-| 子项目 | 说明 | 技术栈 | 最近更新 |
-| --- | --- | --- | --- |
-| [dotfiles](https://github.com/HP-Patience/Tools/tree/main/dotfiles) | Linux 服务器的 Zsh 配置与一键安装脚本。 | Shell · Zsh | 2026-11-12 |
-| [ember-covenant-sanctuary](https://github.com/HP-Patience/Tools/tree/main/ember-covenant-sanctuary) | 《烬契圣堂》：高对比像素风俯视角动作肉鸽原型。 | Phaser 3 · JavaScript | 2026-11-07 |
-| [Dreamcore-Style-Transfer](https://github.com/HP-Patience/Tools/tree/main/Dreamcore-Style-Transfer) | 用 Pillow 做 10 种「核」风格的像素级处理。 | Python · Pillow | 2026-11-04 |
-| [Penrose-Staircase](https://github.com/HP-Patience/Tools/tree/main/Penrose-Staircase) | 生成第 n 阶彭罗斯不可能阶梯。 | Python | 2026-11-04 |
-| [tencent-server-seckill](https://github.com/HP-Patience/Tools/tree/main/tencent-server-seckill) | 腾讯云服务器抢购的本地控制台与命令行。 | Python · Playwright | 2026-11-04 |
-| [mailbox-reader](https://github.com/HP-Patience/Tools/tree/main/mailbox-reader) | 批量导入邮箱，按需读取收件箱。 | Python · Graph API | 2026-11-04 |
-| [QQBookExporter](https://github.com/HP-Patience/Tools/tree/main/QQBookExporter) | 导出在线章节为 Markdown / TXT，再打包 EPUB / PDF。 | Node.js | 2026-11-04 |
-| [Taskleaf-Kanban](https://github.com/HP-Patience/Tools/tree/main/Taskleaf-Kanban) | 四列任务看板，JSON 文件持久化。 | JavaScript · Vite · Express | 2026-11-04 |
-| [ai-subscription-manager](https://github.com/HP-Patience/Tools/tree/main/ai-subscription-manager) | AI 订阅客户、续费与利润记录，到期邮件提醒。 | React · FastAPI · SQLite | 2026-11-04 |
-| [danew_card_cdk](https://github.com/HP-Patience/Tools/tree/main/danew_card_cdk) | CDK 卡密兑换与自动开通。 | Go · Vue | 2026-11-04 |
-| [knowledge-map](https://github.com/HP-Patience/Tools/tree/main/knowledge-map) | Agent 整理、浏览器只读回看的个人知识地图。 | TypeScript · Vite | 2026-11-04 |
-| [GPT图像工坊](https://github.com/HP-Patience/Tools/tree/main/GPT%E5%9B%BE%E5%83%8F%E5%B7%A5%E5%9D%8A) | 输入提示词生成图片，支持参考图编辑与本地标注。 | Python · FastAPI | 2026-08-17 |
-| [LLM试金石](https://github.com/HP-Patience/Tools/tree/main/LLM%E8%AF%95%E9%87%91%E7%9F%B3) | 批量验证 OpenAI 兼容接口的模型连通性与耗时。 | HTML · JavaScript | 2026-07-22 |
-
-</details>
-
 
 ### 归档与资料 · Archive
 
@@ -171,4 +149,4 @@ Project_Hub/
 
 字段约定：`name` `owner` `category` `tagline`（一句话）`desc`（两三句）`stack` `tags` `updated`；可选 `homepage` `featured` `repoUrl`（原仓库已删除或并入时，指向实际位置）`masked`（描述已隐藏）`statusOverride`（`fork` / `archived` / `merged` / `local`）`subprojects`（仓库内子项目，每项含 `name` `tagline` `stack` `updated`，页面上以二级视图展示，不再单列一级条目）。状态默认由 `updated` 推算。`visibility` 为 `private` 的项目必须设 `masked: true` 且清空 `tagline` / `desc`，页面上只显示「描述已隐藏」。
 
-<sub>生成时间 2026-11-12 14:30 · 数据来源 GitHub REST API 与本地工作区</sub>
+<sub>生成时间 2026-11-12 18:23 · 数据来源 GitHub REST API 与本地工作区</sub>
